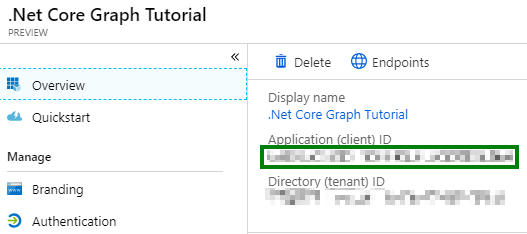
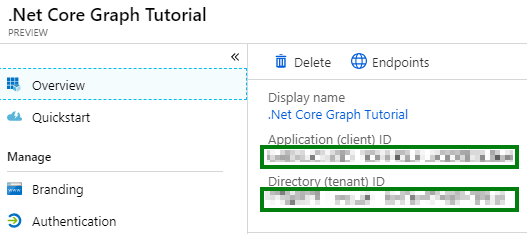
Clean up instructions for app reg and app.settings update
Clarify instructions for app registration process and information that needs to be saved.  Also clean up info on configuring the app.settings file.

Changed region(s): [[0.4858, 0.7778, 1.0, 0.9274]]

diff --git a/README.md b/README.md
@@ -72,11 +72,13 @@ In this exercise, you will create a new Azure AD web application registration us
     - **Supported account types** = \<choose the value that applies to your needs\>
     - **Redirect URI** - https://localhost:8080
 
-    > **Note:** Ensure that the Redirect URI value is unique within your domain.  This value can be changed at a later time and does not need to point to a hosted URI.
+    > **Note:** Ensure that the Redirect URI value is unique within your domain.  This value can be changed at a later time and does not need to point to a hosted URI.  If the example URI above is already used please choose a unique value.
 
     ![Screenshot of creating a new app in the Azure AD App Registration Portal website](Images/aad-create-app-01.png)
 
-1. On the **.NET Core Graph Tutorial** page, copy the **Application (client) ID** as you will need it later.
+    1. Copy the **Redirect URI** as you will need it later.
+
+1. On the **.NET Core Graph Tutorial** page, copy the **Application (client) ID** and **Directory (tenant) ID** as you will need both later.
 
     ![Screenshot of newly created application's ID](Images/aad-create-app-02.png)
 
@@ -117,15 +119,18 @@ In this exercise, you will create a new Azure AD web application registration us
 
     ![Screenshot of granting admin consent for newly added permission](Images/aad-create-app-07.png)
 
+    1. Click **Yes**.
+
 ## Step 3: Extend the app for Azure AD Authentication
 
 In this step you will extend the application from the previous step to support authentication with Azure AD. This is required to obtain the necessary OAuth access token to call the Microsoft Graph. In this step you will integrate the [Microsoft Authentication Library](https://www.nuget.org/packages/Microsoft.Identity.Client/) library into the application.
 
 1. Rename the `appsettings.json.example` file to `appsettings.json`.
 1. Edit `appsettings.json`:
-    1. Replace `YOUR_APP_ID_HERE` with your application ID from the App Registration Portal.
-    2. Replace `YOUR_APP_SECRET_HERE` with your application password from the App Registration Portal.
-    3. Replace `YOUR_TENANT_ID_HERE` with your tenant ID.
+    1. Replace `YOUR_APP_ID_HERE` with your application ID.
+    1. Replace `YOUR_APP_SECRET_HERE` with your application secret.
+    1. Replace `YOUR_TENANT_ID_HERE` with your tenant (domain) ID.
+    1. Replace `YOUR_REDIRECT_URI_HERE` with your application redirect URI.
 
 > **Important:** If you're using source control such as git, now would be a good time to exclude the `appsettings.json` file from source control to avoid inadvertently leaking your app ID and secret.
 
